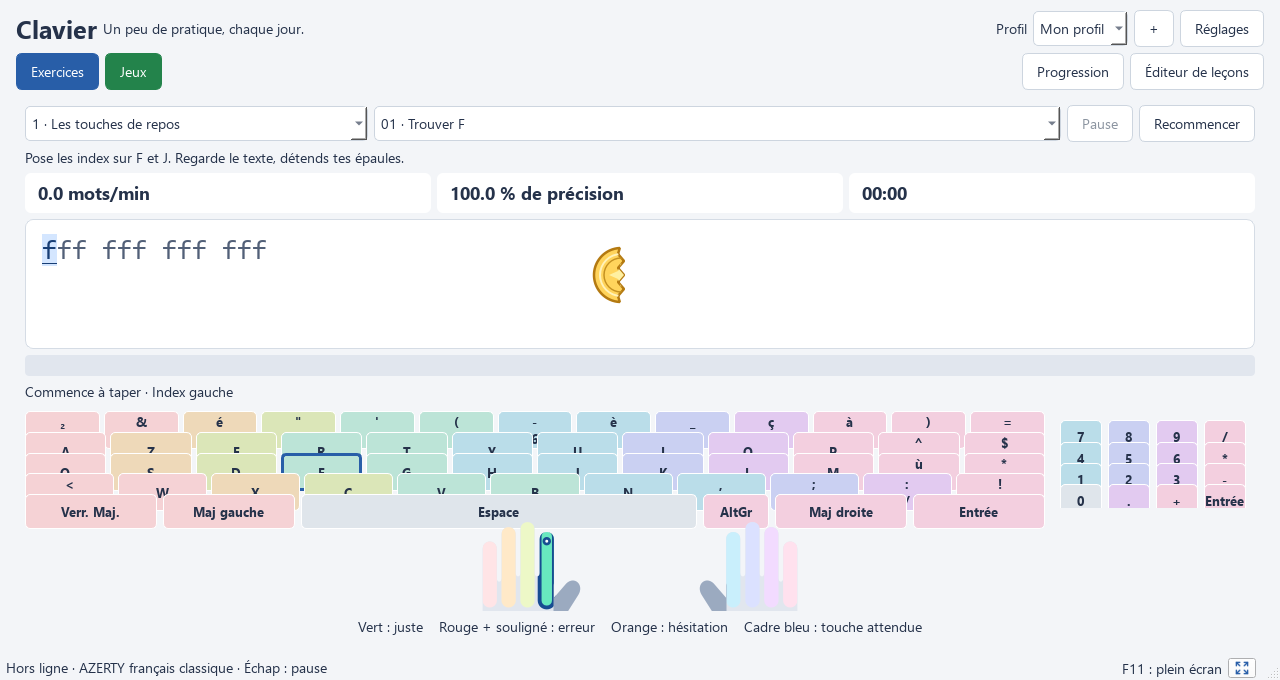
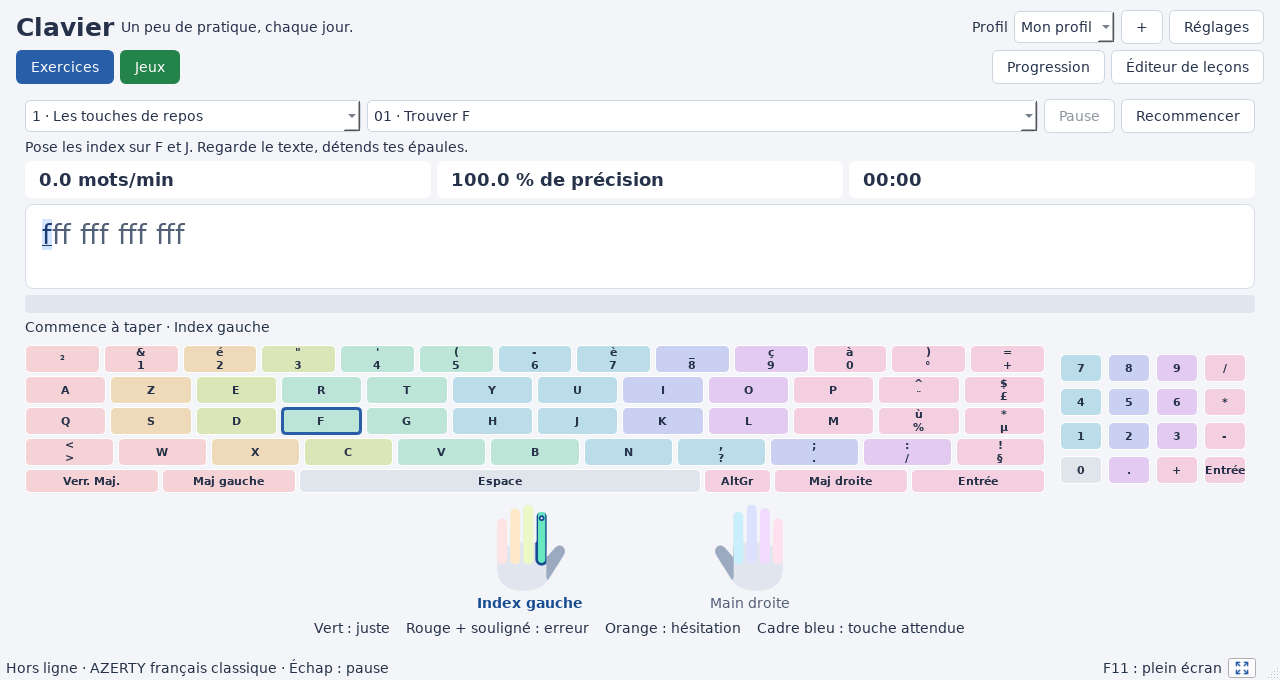
Actualiser Clavier 0.6.4 et son affichage 720p

diff --git a/clavier.html b/clavier.html
@@ -49,8 +49,8 @@
                 <section aria-labelledby="apercu">
                     <h2 id="apercu">Aperçu de l’application</h2>
                     <figure class="app-preview">
-                        <a href="assets/capture-clavier.png" aria-label="Voir la capture de Clavier en grand">
-                            <img src="assets/capture-clavier.png" alt="Exercice de dactylographie dans Clavier avec le texte à saisir, le clavier AZERTY coloré et le guidage des doigts." width="1280" height="680" loading="lazy">
+                        <a href="assets/capture-clavier.png?v=0.6.4" aria-label="Voir la capture de Clavier en grand">
+                            <img src="assets/capture-clavier.png?v=0.6.4" alt="Exercice de dactylographie dans Clavier avec le texte à saisir, le clavier AZERTY coloré et le guidage des doigts." width="1280" height="680" loading="lazy">
                         </a>
                         <figcaption>Cliquer sur la capture pour l’ouvrir en grand.</figcaption>
                     </figure>
@@ -62,13 +62,14 @@
                 </section>
                 <section aria-labelledby="downloads" data-download-app="clavier">
                     <h2 id="downloads">Téléchargements</h2>
-                    <p>Clavier 0.6.3 est disponible pour Windows 64 bits et Linux Mint 22.3 ou une distribution compatible.</p>
+                    <p>Clavier 0.6.4 est disponible pour Windows 64 bits et Linux Mint 22.3 ou une distribution compatible.</p>
                     <p data-download-status role="status">Les fichiers disponibles sont en cours de chargement.</p>
                     <div data-current-release></div>
                     <details data-release-history hidden>
                         <summary>Versions précédentes</summary>
                         <div data-previous-releases></div>
                     </details>
+                    <p>La version 0.6.4 amÃ©liore lâ€™affichage des exercices sur Ã©cran 720p.</p>
                     <p>La version portable Windows s’utilise après extraction de l’archive ZIP, sans installation.</p>
                     <p><a href="https://github.com/frdefaye-blip/paon/releases">Toutes les versions et les empreintes SHA256 →</a></p>
                 </section>
